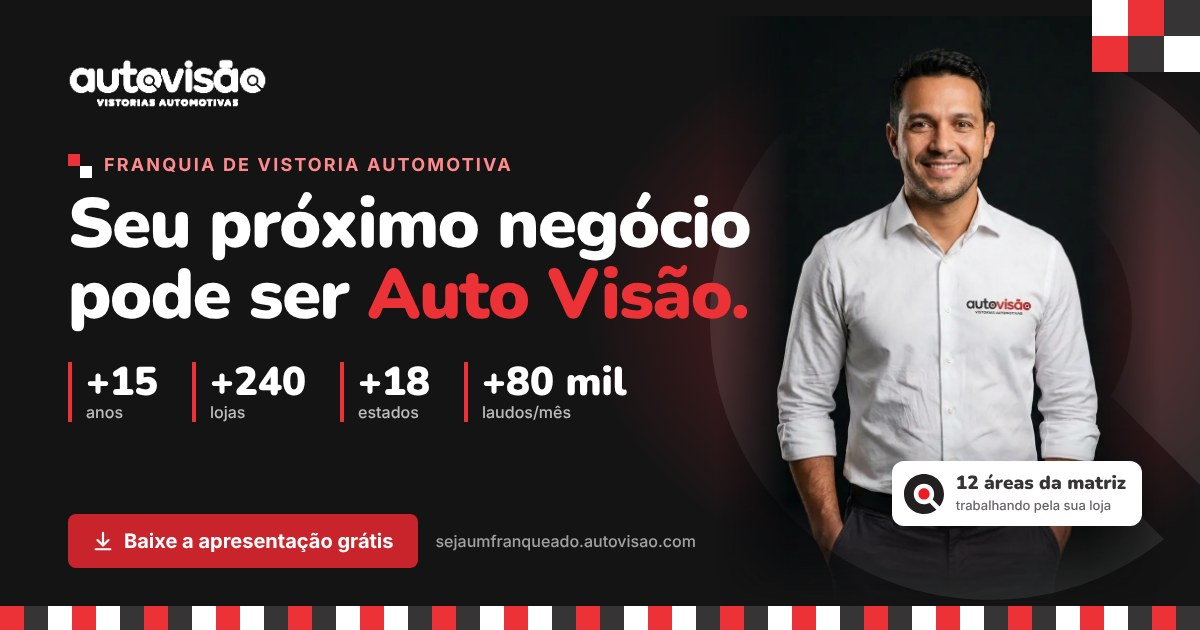
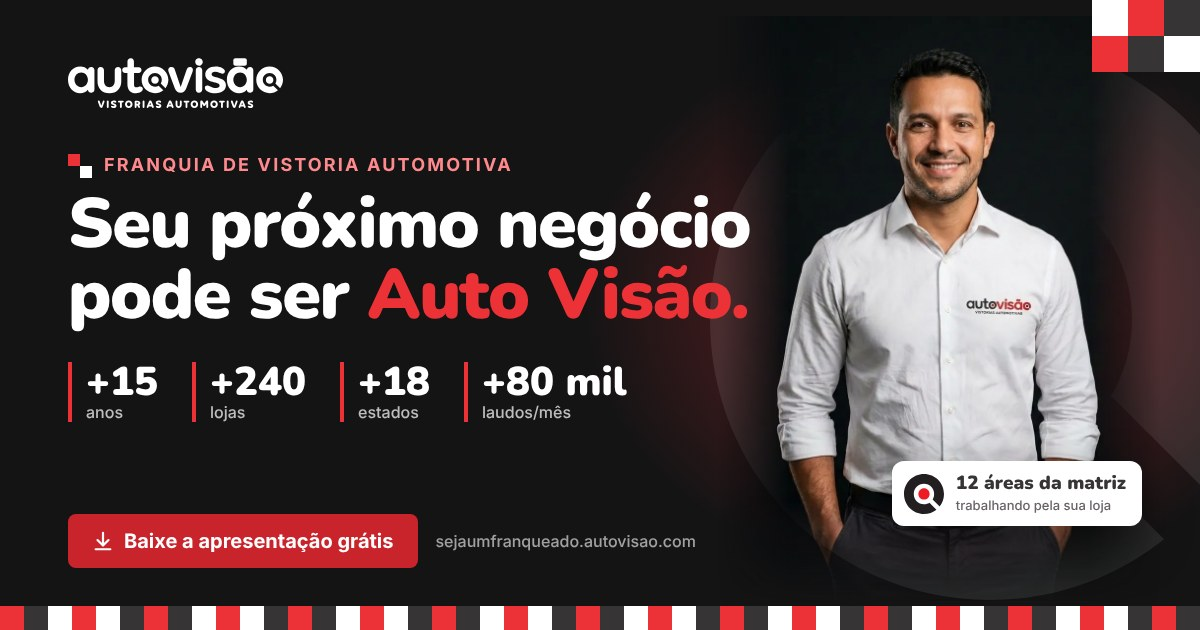
fix: logotipo em vetor com fundo transparente (nítido em qualquer tela)
O logo era um PNG de 227x57 px ampliado, que ficava borrado em telas de
alta resolução. Agora usa o vetor oficial extraído do Design System (p.31):

- logo-autovisao.svg (colorido) e logo-autovisao-branco.svg (negativo
  integral, regra do DS 1.1), ambos com fundo transparente
- Header, rodapé e capa da apresentação usam o SVG
- PNGs transparentes de 1200 px (dados estruturados exigem raster)
- Banner de prévia de link refeito com o logo nítido

Claude-Session: https://claude.ai/code/session_016xu6QXVueKNVphkd9tEGBW

Changed region(s): [[0.0617, 0.0905, 0.2467, 0.181]]

diff --git a/index.html b/index.html
@@ -178,8 +178,7 @@
   <header class="header" id="topo">
     <div class="container header__inner">
       <a class="header__logo" href="#inicio" aria-label="Auto Visão Vistorias, voltar ao início">
-        <img class="logo-dark" src="assets/img/logo-autovisao-branco.png" alt="Auto Visão Vistorias Automotivas" width="227" height="57">
-        <img class="logo-light" src="assets/img/logo-autovisao.png" alt="" width="227" height="57" aria-hidden="true">
+        <img src="assets/img/logo-autovisao-branco.svg" alt="Auto Visão Vistorias Automotivas" width="172" height="40">
       </a>
       <nav class="nav" aria-label="Navegação principal">
         <a href="#por-que">Por que Auto Visão</a>
@@ -533,7 +532,7 @@
             <div class="deck__page deck__page--2"></div>
             <div class="deck__page deck__page--1">
               <div class="deck__mosaic"><i class="r"></i><i class="g"></i><i></i><i class="g"></i><i class="r"></i><i class="g"></i></div>
-              <img src="assets/img/logo-autovisao-branco.png" alt="" width="113" height="28" loading="lazy">
+              <img src="assets/img/logo-autovisao-branco.svg" alt="" width="112" height="26" loading="lazy">
               <span class="deck__kicker">FRANQUIA AUTO VISÃO</span>
               <strong class="deck__title">Abra a sua loja de vistoria com a marca Auto Visão.</strong>
               <span class="deck__nums"><b>+240</b> lojas <b>+18</b> estados</span>
@@ -774,7 +773,7 @@
     <div class="checker checker--top" aria-hidden="true"></div>
     <div class="container footer__grid">
       <div>
-        <img src="assets/img/logo-autovisao-branco.png" alt="Auto Visão Vistorias Automotivas" width="180" height="45" loading="lazy">
+        <img src="assets/img/logo-autovisao-branco.svg" alt="Auto Visão Vistorias Automotivas" width="172" height="40" loading="lazy">
         <p>Rede brasileira de vistorias automotivas. +15 anos, +240 lojas em +18 estados e +80 mil laudos por mês. Sede em Campinas (SP).</p>
       </div>
       <nav aria-label="Seções">

diff --git a/assets/css/styles.css b/assets/css/styles.css
@@ -110,7 +110,6 @@ button, input, select, textarea { font: inherit; color: inherit; }
 .header__inner { height: 100%; display: flex; align-items: center; gap: 24px; }
 .header__logo { flex: none; }
 .header__logo img { height: 40px; width: auto; }
-.logo-light { display: none !important; }
 .nav { display: none; gap: 4px; margin: 0 auto; }
 .nav a { color: rgba(255, 255, 255, .85); text-decoration: none; font-size: 14px; font-weight: 500; padding: 8px 10px; border-radius: 6px; position: relative; transition: color var(--t2); }
 .nav a:hover, .nav a.is-active { color: #fff; }

diff --git a/README.md b/README.md
@@ -83,6 +83,7 @@ Também ativos: correspondência avançada do Pixel e conversões otimizadas do 
 ## Ícones e prévia de link
 
 - Favicon gerado do **vetor oficial do símbolo** (DS p.31), sem redesenho: `favicon.ico` (16/32/48), `favicon.svg`, `favicon-32.png`, `apple-touch-icon.png` (180), `icon-192/512.png` e `icon-maskable-512.png` (Android, versão branca sobre vermelho)
+- **Logotipo em vetor**, extraído do Design System (p.31), com fundo transparente: `logo-autovisao.svg` (colorido, para fundo claro) e `logo-autovisao-branco.svg` (todo branco, para fundo escuro ou vermelho). Versões PNG transparentes de 1200 px com os mesmos nomes, para usos que não aceitam SVG
 - Símbolo isolado para outros usos: `assets/img/simbolo-autovisao.svg` e `simbolo-autovisao-branco.svg`
 - Banner de prévia (WhatsApp, LinkedIn, Facebook, X): `assets/img/og-preview.jpg`, 1200×630, 95 KB (o WhatsApp ignora imagens acima de ~300 KB)
 
